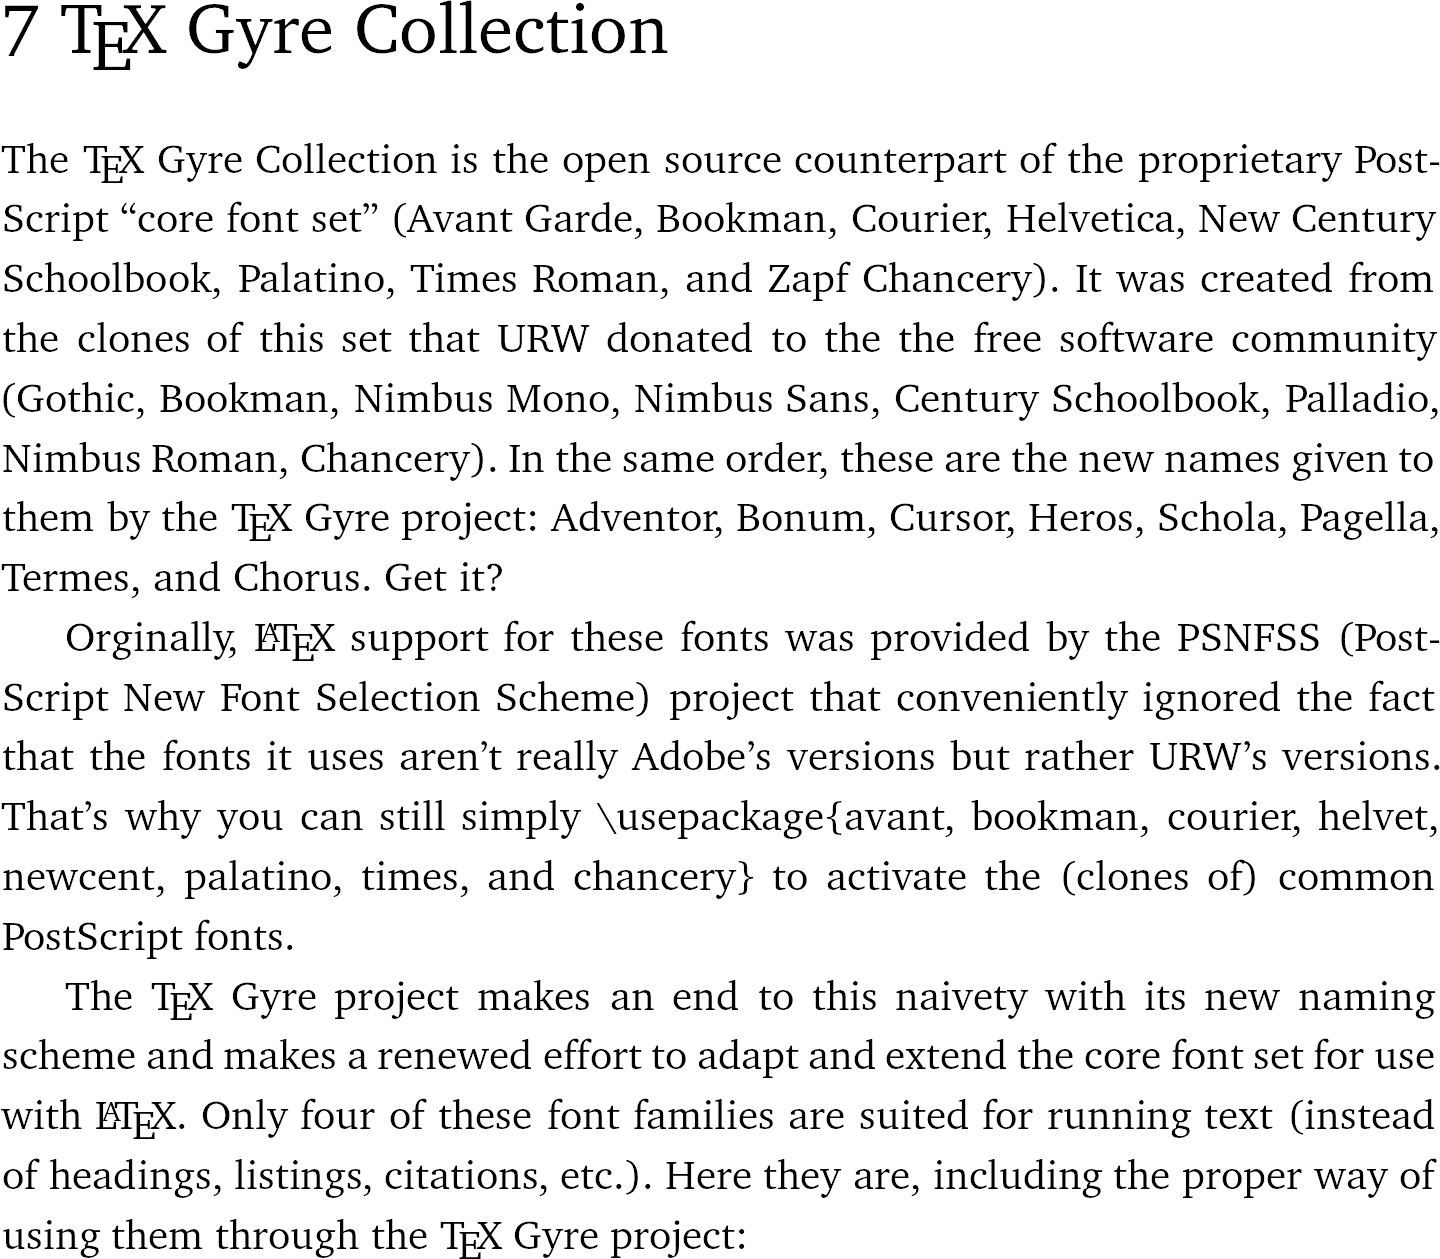
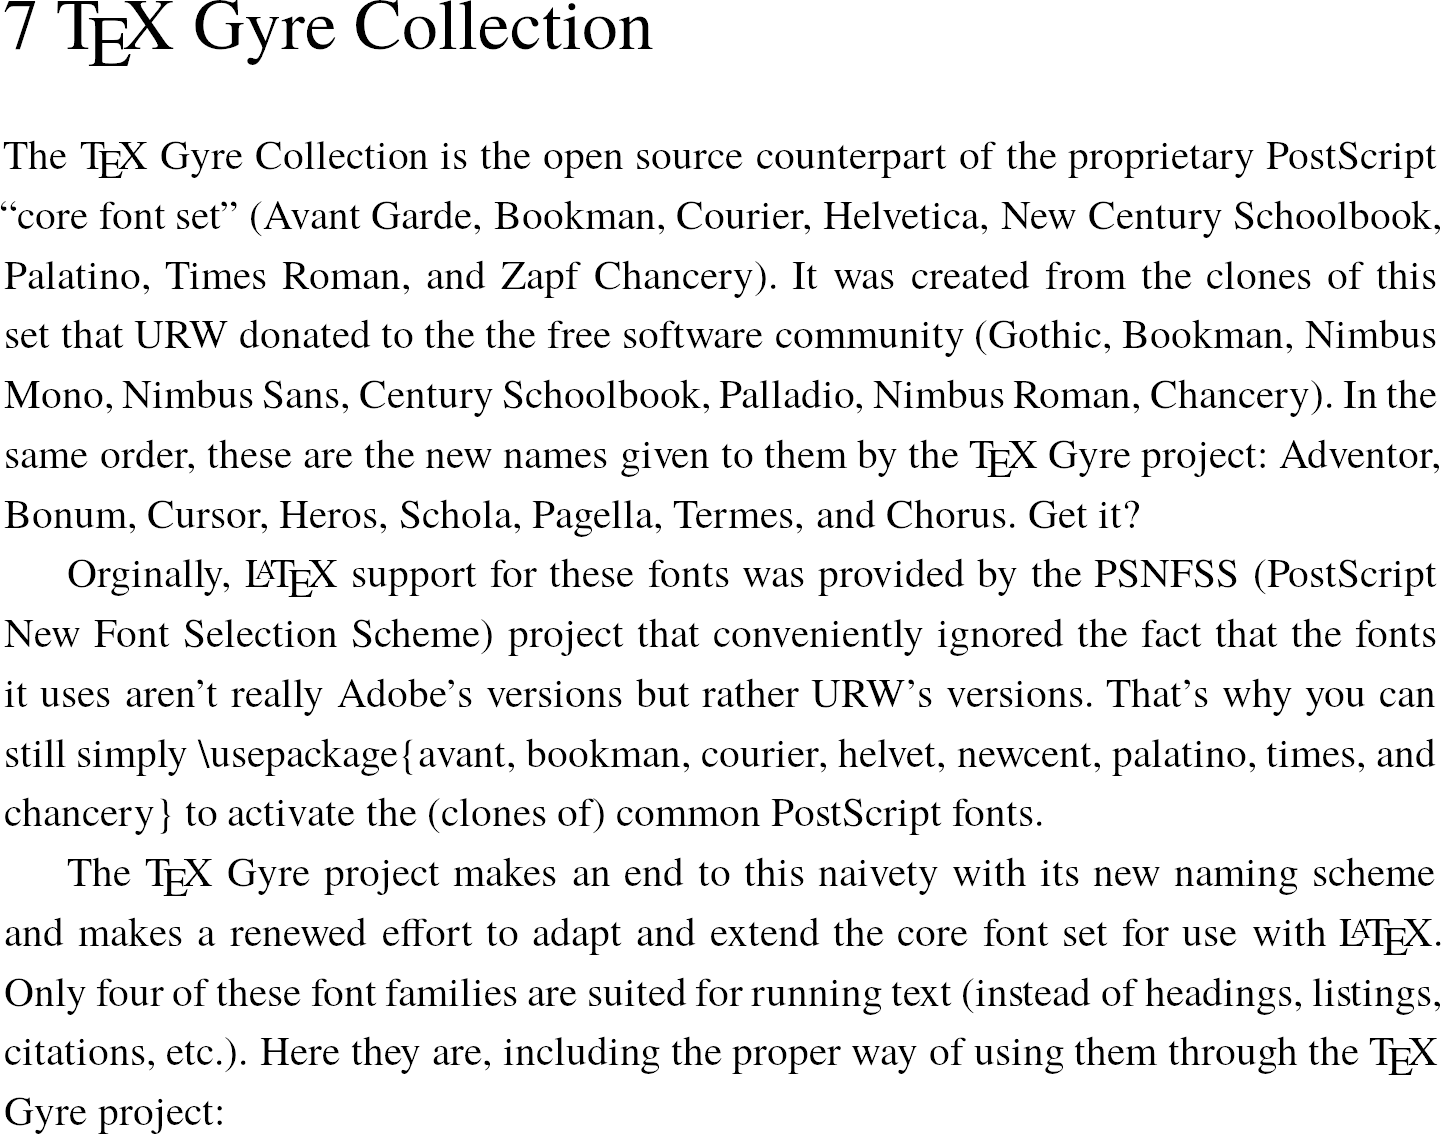
changed gyre font to termes

Changed region(s): [[0.0, 0.0926, 1.0, 1.0], [0.0, 0.0, 0.4688, 0.0617]]

diff --git a/gyre.tex b/gyre.tex
@@ -1,6 +1,6 @@
 \documentclass{article}
 \usepackage[T1]{fontenc}
-\usepackage{charter}
+\usepackage{tgtermes}
 %\usepackage{helvet}
 %\renewcommand{\familydefault}{\sfdefault}
 \usepackage{microtype}
